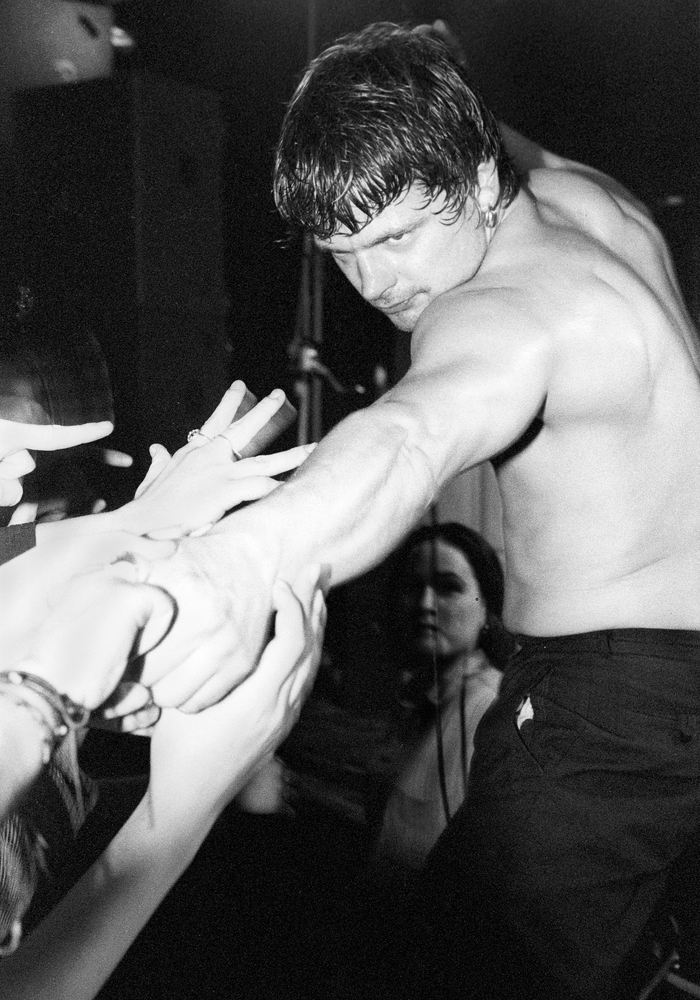
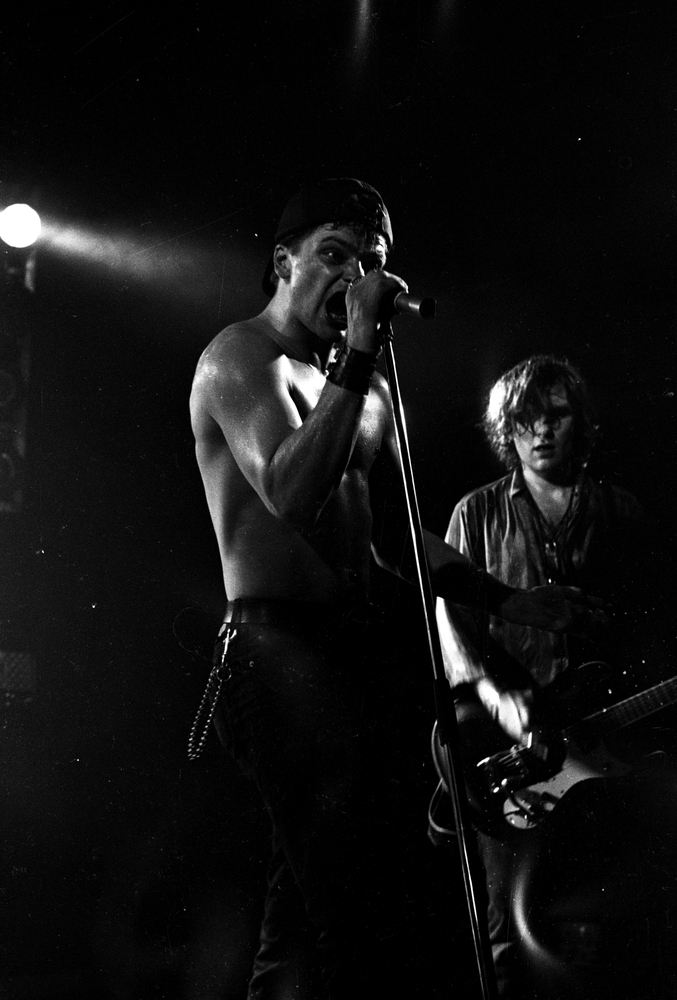
only use good photos in DeNyeBanner

diff --git a/src/components/Frontpage/Hero/Photos.ts b/src/components/Frontpage/Hero/Photos.ts
@@ -1,18 +1,24 @@
-import isfitWorkshop1999 from "@/assets/images/frontpage/ISFit Workshop 1999(web).jpg";
-import karpeDiem2010 from "@/assets/images/frontpage/Karpe Diem 2010(web).jpg";
-import knutsenOgLudvigsen1972 from "@/assets/images/frontpage/Knutsen og ludvigsen 1972(web).jpg";
-import samfundsmoteKongepar1968 from "@/assets/images/frontpage/Samfundsmøte Kronprins Harald og Kronprinsesse Sonja 1968(web).jpg";
-import dumDumBoysCrowd1988 from "@/assets/images/frontpage/dum dum boys 1988(web).jpg";
 import ukeKomite1935 from "@/assets/images/frontpage/uke-komite-1935.jpg";
 import billettkoUka1935 from "@/assets/images/frontpage/billettko-uka-1935.jpg";
 import mote50Tallet1951 from "@/assets/images/frontpage/mote-50-tallet-1951.jpg";
-import nthi17MaiTog1951 from "@/assets/images/frontpage/nthi-17-mai-tog-1951.jpg";
 import samfundet1953 from "@/assets/images/frontpage/samfundet-1953.jpg";
-import samf17MaiTog1985 from "@/assets/images/frontpage/samf-17-mai-tog-1985.jpg";
+import kronprinsHarald1968 from "@/assets/images/frontpage/kronprins-harald-1968.jpg";
+import knutsenOgLudvigsen1972 from "@/assets/images/frontpage/Knutsen og ludvigsen 1972(web).jpg";
 import deLillos1987 from "@/assets/images/frontpage/delillos-1987.jpg";
-import dumDumBoysOnstage1988 from "@/assets/images/frontpage/dum-dum-1988.jpg";
+import dumDumBoysWeb1988 from "@/assets/images/frontpage/dum dum boys 1988(web).jpg";
+import dumDumBoys1988 from "@/assets/images/frontpage/dum-dum-boys-1988.jpg";
 import jokke1988 from "@/assets/images/frontpage/jokke-1988.jpg";
-import dumDumBoysAudience1988 from "@/assets/images/frontpage/dum-dum-boys-1988.jpg";
+import isfitWorkshop1999 from "@/assets/images/frontpage/ISFit Workshop 1999(web).jpg";
+import bigBang2009 from "@/assets/images/frontpage/big-bang-2009.jpg";
+import karpeDiem2010 from "@/assets/images/frontpage/Karpe Diem 2010(web).jpg";
+import kaizersOrchestra2010 from "@/assets/images/frontpage/kaizers-orchestra-2010.jpg";
+import kaizersOrchestra2014 from "@/assets/images/frontpage/kaizers-orchestra-2014.jpg";
+import sondreLerche2015 from "@/assets/images/frontpage/sondre-lerche-2015.jpg";
+import boyPablo2021 from "@/assets/images/frontpage/boy-pablo-2021.jpg";
+import jesperFosdal2026 from "@/assets/images/frontpage/jesper-fosdal-2026.jpg";
+import toga2026 from "@/assets/images/frontpage/toga-2026.jpg";
+import vm2026 from "@/assets/images/frontpage/vm-2026.jpg";
+import donkeyboy2026 from "@/assets/images/frontpage/donkeyboy-2026.jpg";
 
 type Photo = {
   url: string;
@@ -23,78 +29,108 @@ type Photo = {
 const photos: Photo[] = [
   {
     url: ukeKomite1935,
-    description: "Uke-komiteen planlegger Uka",
+    description: "Uka 35 komiteen",
     year: 1935,
   },
   {
     url: billettkoUka1935,
-    description: "Kø til billettslippet",
+    description: "Billettkø under Uka 35",
     year: 1935,
   },
   {
     url: mote50Tallet1951,
-    description: "Møte rundt en ølkasse",
-    year: 1951,
-  },
-  {
-    url: nthi17MaiTog1951,
-    description: "NTHI i 17. mai-toget",
+    description: "Møte på 50-tallet",
     year: 1951,
   },
   {
     url: samfundet1953,
-    description: "Nedtelling på fasaden",
+    description: "Samfundet",
     year: 1953,
   },
   {
-    url: samfundsmoteKongepar1968,
-    description: "Kronprins Harald og kronprinsesse Sonja på Samfundet",
+    url: kronprinsHarald1968,
+    description: "Kronprins Harald",
     year: 1968,
   },
   {
     url: knutsenOgLudvigsen1972,
-    description: "Knutsen og Ludvigsen spiller",
+    description: "Knutsen og Ludvigsen",
     year: 1972,
   },
   {
-    url: samf17MaiTog1985,
-    description: "17. mai ved Samfundet",
-    year: 1985,
-  },
-  {
     url: deLillos1987,
-    description: "deLillos spiller på Samfundet",
+    description: "deLillos",
     year: 1987,
   },
   {
-    url: dumDumBoysCrowd1988,
-    description: "Dum Dum Boys for fullt hus",
+    url: dumDumBoysWeb1988,
+    description: "Dum Dum Boys",
     year: 1988,
   },
   {
-    url: dumDumBoysAudience1988,
-    description: "Vokalisten ut til publikum",
-    year: 1988,
-  },
-  {
-    url: dumDumBoysOnstage1988,
-    description: "Dum Dum Boys på scenen",
+    url: dumDumBoys1988,
+    description: "Dum Dum Boys",
     year: 1988,
   },
   {
     url: jokke1988,
-    description: "Jokke spiller live",
+    description: "Jokke",
     year: 1988,
   },
   {
     url: isfitWorkshop1999,
-    description: "Workshop på ISFiT",
+    description: "ISFiT-workshop",
     year: 1999,
   },
   {
+    url: bigBang2009,
+    description: "Big Bang",
+    year: 2009,
+  },
+  {
     url: karpeDiem2010,
-    description: "Karpe Diem live",
+    description: "Karpe Diem",
     year: 2010,
+  },
+  {
+    url: kaizersOrchestra2010,
+    description: "Kaizers Orchestra",
+    year: 2010,
+  },
+  {
+    url: kaizersOrchestra2014,
+    description: "Kaizers Orchestra",
+    year: 2014,
+  },
+  {
+    url: sondreLerche2015,
+    description: "Sondre Lerche",
+    year: 2015,
+  },
+  {
+    url: boyPablo2021,
+    description: "Boy Pablo",
+    year: 2021,
+  },
+  {
+    url: jesperFosdal2026,
+    description: "Jesper Fosdal",
+    year: 2026,
+  },
+  {
+    url: toga2026,
+    description: "Toga",
+    year: 2026,
+  },
+  {
+    url: vm2026,
+    description: "Norge - Brasil VM 2026",
+    year: 2026,
+  },
+  {
+    url: donkeyboy2026,
+    description: "Donkeyboy",
+    year: 2026,
   },
 ];
 

diff --git a/src/components/Frontpage/Hero/useMarqueeDuration.ts b/src/components/Frontpage/Hero/useMarqueeDuration.ts
@@ -26,9 +26,9 @@ export default function useMarqueeDuration(
     };
 
     const images = Array.from(track.querySelectorAll("img"));
-    void Promise.all(images.map((image) => image.decode().catch(() => {}))).then(
-      measure,
-    );
+    void Promise.all(
+      images.map((image) => image.decode().catch(() => {})),
+    ).then(measure);
 
     return () => {
       cancelled = true;
